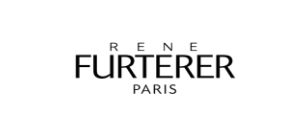
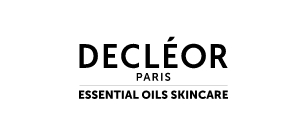
Update from Forestry.io Konrad W created content/uploads/group-183.jpg Konrad W updated content/nasze-marki/_index.md

Changed region(s): [[0.2338, 0.2647, 0.7597, 0.7353]]

diff --git a/content/nasze-marki/_index.md b/content/nasze-marki/_index.md
@@ -267,6 +267,10 @@ tytul_marki = "Barbor"
 [[grupa_marek]]
 tytul_grupy = "Cabin/PRO"
 [[grupa_marek.marki]]
+ikona_marki = "/uploads/group-183.jpg"
+odnisnik_marki = []
+tytul_marki = "Decleor"
+[[grupa_marek.marki]]
 ikona_marki = "/uploads/comfort_zone-logo.jpg"
 odnisnik_marki = "nasze-marki/comfort-zone.md"
 tytul_marki = "Comfortzone"
